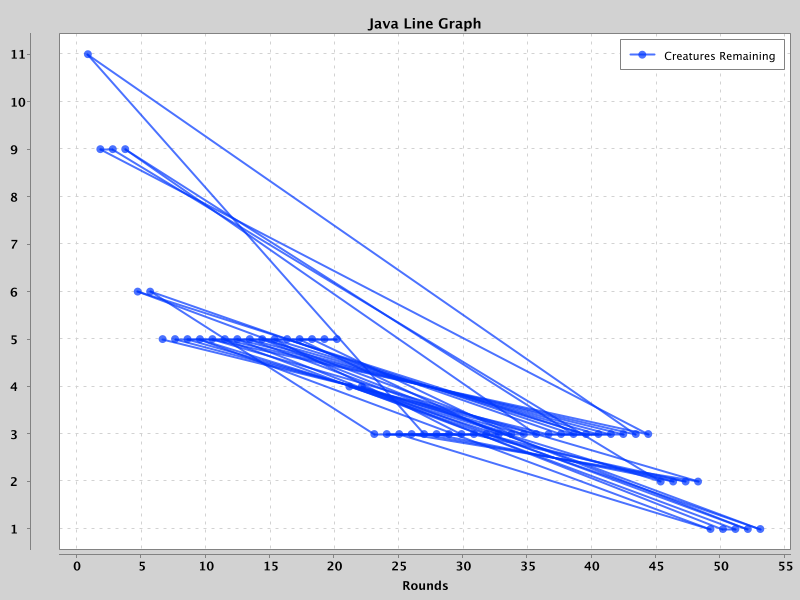
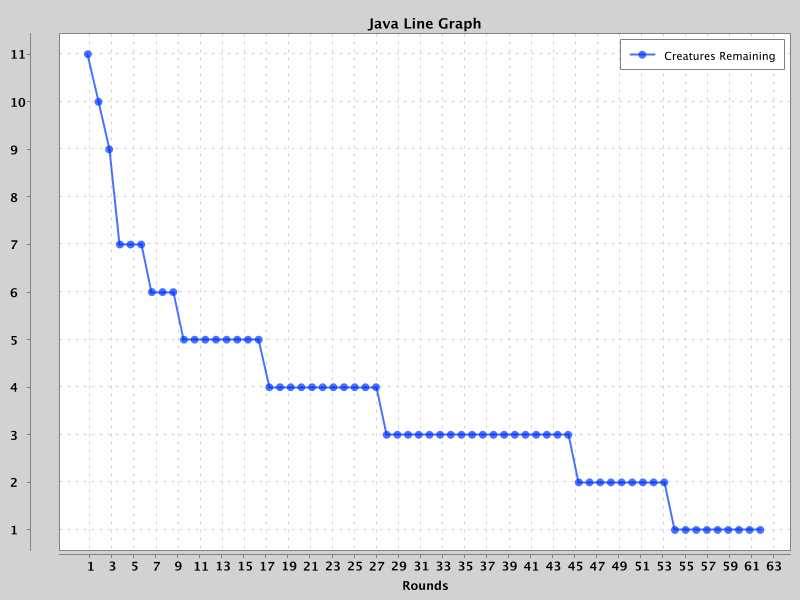
sorted files

diff --git a/src/main/java/game/Plotter.java b/src/main/java/game/Plotter.java
@@ -1,6 +1,7 @@
 package game;
 
 import java.util.ArrayList;
+import java.util.Arrays;
 import java.util.HashMap;
 import java.io.File;
 import java.io.FileReader;
@@ -10,7 +11,6 @@ import org.json.simple.JSONObject;
 import org.json.simple.parser.JSONParser;
 import org.knowm.xchart.*;
 import org.knowm.xchart.BitmapEncoder.BitmapFormat;
-import org.knowm.xchart.XYSeries.XYSeriesRenderStyle;
 import org.knowm.xchart.style.Styler.LegendPosition;
 
 public class Plotter {
@@ -31,11 +31,12 @@ public class Plotter {
     private HashMap<String, ArrayList<Integer>> readLoggerFiles() {
         ArrayList<Integer> rounds = new ArrayList<Integer>();
         ArrayList<Integer> numCreatures = new ArrayList<Integer>();
-        //ArrayList<Integer> numTreasuresFound = new ArrayList<Integer>();
+        ArrayList<Integer> numTreasuresFound = new ArrayList<Integer>();
         //ArrayList<Integer> characterDamages = new ArrayList<Integer>();
 
         File dir = new File("Logger-files");
         File[] loggerFiles = dir.listFiles();
+        Arrays.sort(loggerFiles);
         for (File loggerFile : loggerFiles) {
             JSONParser parser = new JSONParser();
             try {
@@ -45,14 +46,13 @@ public class Plotter {
                 rounds.add(Integer.parseInt(roundStr));
 
                 JSONObject jsonCreatures = (JSONObject)jsonObject.get("Creatures");
-                System.out.println(jsonCreatures);
                 String remainingStr = String.valueOf(jsonCreatures.get("Remaining"));
                 numCreatures.add(Integer.parseInt(remainingStr));
 
-                //JSONObject jsonCharacter = (JSONObject)jsonObject.get("Character");
-                //ArrayList<Object> treasureFound =
-                //    (ArrayList<Object>)jsonCharacter.get("Treasure");
-                //numTreasuresFound.add(treasureFound.size());
+                JSONObject jsonCharacter = (JSONObject)jsonObject.get("Character");
+                ArrayList<Object> treasureFound =
+                    (ArrayList<Object>)jsonCharacter.get("Treasure");
+                numTreasuresFound.add(treasureFound.size());
 
                 //String damageStr = (String)jsonCharacter.get("Damage");
                 //characterDamages.add(Integer.parseInt(damageStr));
@@ -63,7 +63,7 @@ public class Plotter {
         HashMap<String, ArrayList<Integer>> lineGraphData = new HashMap<String, ArrayList<Integer>>();
         lineGraphData.put("rounds", rounds);
         lineGraphData.put("numCreatures", numCreatures);
-        //lineGraphData.put("numTreasuresFound", numTreasuresFound);
+        lineGraphData.put("numTreasuresFound", numTreasuresFound);
         //lineGraphData.put("characterDamages", characterDamages);
 
         return lineGraphData;
@@ -95,8 +95,8 @@ public class Plotter {
         ArrayList<Integer> xData = lineGraphData.get("rounds");
         chart.addSeries("Creatures Remaining", xData,
             lineGraphData.get("numCreatures"));
-        //chart.addSeries("Treasures Found", xData,
-        //    lineGraphData.get("numTreasuresFound"));
+        chart.addSeries("Treasures Found", xData,
+            lineGraphData.get("numTreasuresFound"));
         //chart.addSeries("Adventurer Damage", xData,
         //    lineGraphData.get("characterDamages"));
 

diff --git a/src/main/java/game/Logger.java b/src/main/java/game/Logger.java
@@ -51,7 +51,8 @@ public class Logger {
      * name, location, damage, and treasures.
      */
     private HashMap<String, Object> getCharacterDict() {
-        Character character = tracker.getCharacterList().get(0); // Later this won't be from a list because ther is just one character
+        Character character = tracker.getCharacterList().get(0);
+        // Later this won't be from a list because ther is just one character
         HashMap<String,Object> characterDict = new HashMap<String,Object>();
         characterDict.put("Name", character.getName());
         characterDict.put("Type", character.getClass().getSimpleName());
@@ -108,8 +109,9 @@ public class Logger {
 
             JSONObject jsonLog = new JSONObject(logDict);
             try {
+                String roundCountPadded = String.format("%03d", roundCount);
                 String fileName
-                    = new String("Logger-files/Logger-" + roundCount + ".json");
+                    = new String("Logger-files/Logger-" + roundCountPadded + ".json");
                 FileWriter fileWriter = new FileWriter(fileName);
                 fileWriter.write(jsonLog.toJSONString());
                 fileWriter.close();
